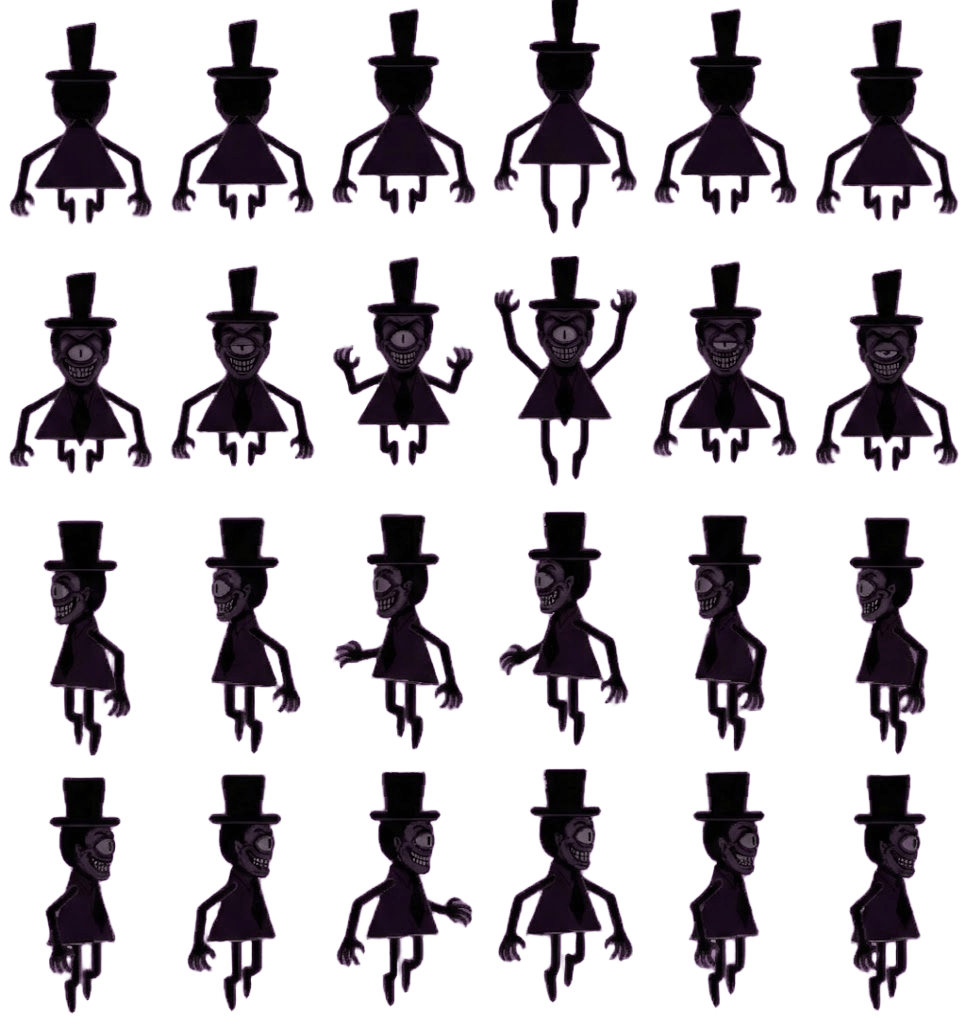
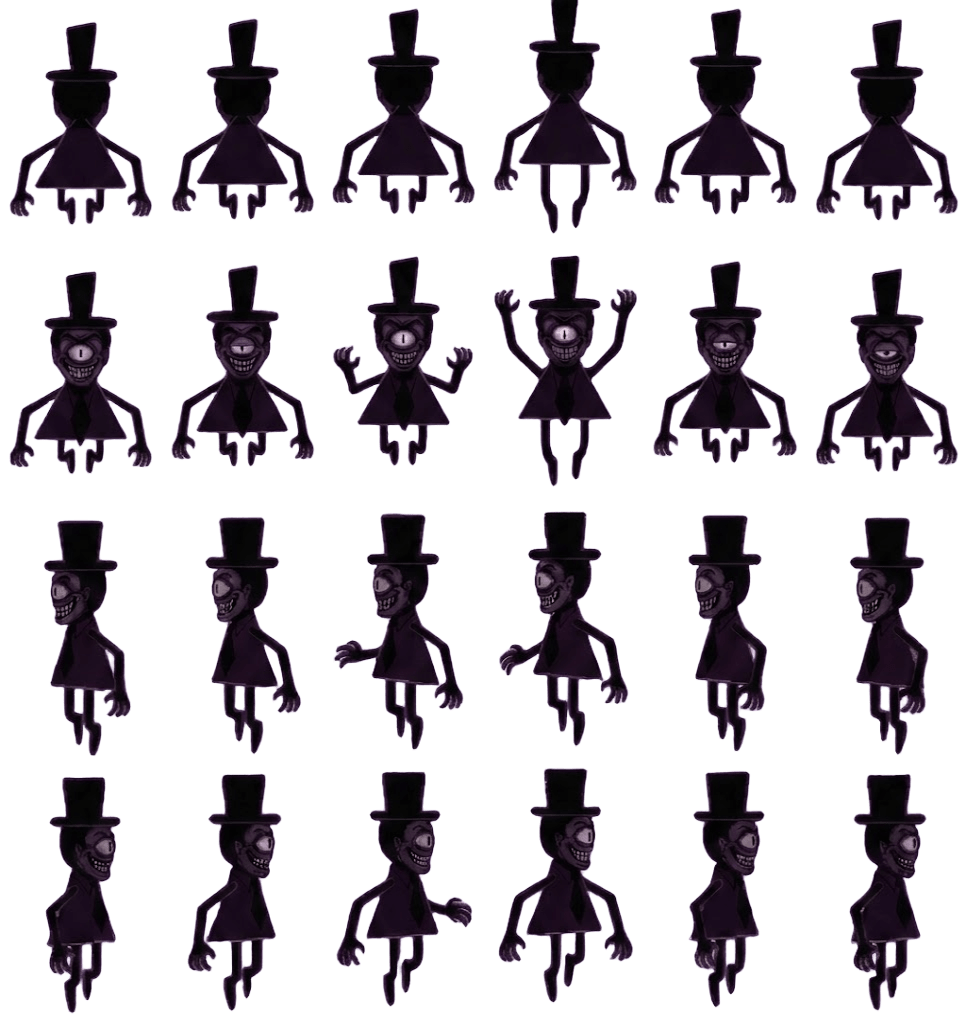
começando a adicionar o estranhesaulon com sprite do saulão modo estranho e efeitos visuais

diff --git a/jogo/sistema_personagens/inimigo.py b/jogo/sistema_personagens/inimigo.py
@@ -3,6 +3,9 @@ import os
 from sistema_personagens.personagens import Personagem
 from sistema_personagens.ia_saulao import SaulaoIA
 from sistema_personagens.estado_saulao import EstadoSaulao
+import math
+from sistema_ambientacao.fumaca_estranheza import FumacaEstranheza
+from sistema_ambientacao.particulas_estranheza import ParticulasEstranheza
 
 BASE_DIR = os.path.dirname(os.path.dirname(os.path.abspath(__file__)))
 
@@ -46,6 +49,9 @@ class Saulao(Personagem):
         caminho = os.path.join( BASE_DIR, "assets", "inimigos", "saulao", "spritesaulao.png")
         self.spritesheet = pygame.image.load(caminho).convert_alpha()
 
+        caminho_estranho = os.path.join(BASE_DIR, "assets", "estranhesaulon", "criaturas", "saulao_estranho", "saulao_estranho.png")
+        self.spritesheet_estranho = pygame.image.load(caminho_estranho).convert_alpha()
+
         caminho_ataque = os.path.join(BASE_DIR, "assets", "inimigos", "saulao", "saulao_atacando.png")
         self.spritesheet_ataque = pygame.image.load(caminho_ataque).convert_alpha()
 
@@ -71,6 +77,13 @@ class Saulao(Personagem):
         self.ia = SaulaoIA(self)
         self.estado = EstadoSaulao.PARADO
         self.dano_aplicado = False
+
+        self.estranhesaulon = False
+        self.tempo_flutuacao = 0.0
+        self.amplitude_flutuacao = 5
+        self.velocidade_flutuacao = 2.5
+        self.fumaca_estranheza = FumacaEstranheza()
+        self.particulas_estranheza = ParticulasEstranheza()
 
     def atualizar_ia(self, jogador, mapa):
         self.ia.atualizar(jogador, mapa)
@@ -139,7 +152,23 @@ class Saulao(Personagem):
             
         return False
 
+    def atualizar_flutuacao(self, dt):
+        if not self.estranhesaulon:
+            self.tempo_flutuacao = 0
+            return
+
+        self.tempo_flutuacao += dt
+        self.fumaca_estranheza.atualizar(dt)
+        self.particulas_estranheza.atualizar(dt)
+
+    def obter_offset_flutuacao(self):
+        return math.sin(self.tempo_flutuacao * self.velocidade_flutuacao) * self.amplitude_flutuacao
+
     def desenhar(self, tela):
+        if self.estranhesaulon:
+            self.desenhar_estranho(tela)
+            return
+
         glow_rect = self.glow.get_rect(center=(self.rect.centerx, self.rect.centery))
 
         tela.blit(self.glow, glow_rect, special_flags=pygame.BLEND_RGBA_ADD)
@@ -173,3 +202,27 @@ class Saulao(Personagem):
         self.desenhar_sombra(tela)
         # debug
         # pygame.draw.rect(tela, (255, 0, 0), self.rect, 2)
+
+    def desenhar_estranho(self, tela):
+        direcoes_estranhas = {
+            "cima": 0,
+            "baixo":1,
+            "esquerda":2,
+            "direita": 3
+        }
+        linha = direcoes_estranhas[self.direcao]
+
+        x_frame = self.frame_atual * self.frame_largura
+        y_frame = linha * self.frame_altura
+        frame = self.spritesheet_estranho.subsurface((x_frame, y_frame, self.frame_largura, self.frame_altura))
+
+        escala_estranha = 0.25
+        imagem = pygame.transform.scale(frame, (int(161 * escala_estranha), int(256 * escala_estranha)))
+
+        offset_y = self.obter_offset_flutuacao()
+
+        imagem_rect = imagem.get_rect(midbottom=(self.rect.centerx, self.rect.bottom + offset_y))
+        tela.blit(imagem, imagem_rect)
+
+        self.fumaca_estranheza.desenhar(tela, self.rect.centerx, self.rect.centery)
+        self.particulas_estranheza.desenhar(tela, self.rect.centerx, self.rect.centery)

diff --git a/jogo/game.py b/jogo/game.py
@@ -17,6 +17,7 @@ from sistema_menu.tela_vitoria import TelaVitoria
 from sistema_personagens.estado_benicio import EstadoBenicio
 from sistema_menu.tela_derrota import TelaDerrota
 from sistema_ambientacao.iluminacao import Iluminacao
+from sistema_ambientacao.fendas_estranheza import FendasEstranheza
 
 #tamanho da janela que o jogador vê (viewport), não é mais o tamanho do mapa
 LARGURA_VIEWPORT = 800
@@ -51,6 +52,8 @@ class Game:
         #mapa
         self.mapa = Map()
 
+        self.fendas_estranheza = FendasEstranheza(self.mapa.estranheza)
+
         #sistemas do mapa
         self.mesa_mistura = MesaMistura(464, 800)
         self.porta = Porta(446, 870)
@@ -65,6 +68,7 @@ class Game:
         x,y = self.mapa.encontrar_posicao_livre(16, 18)
         self.player = Benício(x,y, 1.3)
         self.saulao = Saulao(200, 200, velocidade=1.0)
+        self.saulao.estranhesaulon = True
 
         #telas de resultado
         #cena de vitoria
@@ -107,6 +111,9 @@ class Game:
         self.DEBUG = False
         self.estado = Estado.JOGANDO
         self.tempo_restante = 7 * 60
+
+
+        
 
     def tratar_eventos(self):
         for evento in pygame.event.get():
@@ -172,6 +179,8 @@ class Game:
 
         self.tempo_restante -= dt
 
+        self.fendas_estranheza.atualizar(dt)
+
         if self.tempo_restante <= 0:
             self.tempo_restante = 0
             self.iniciar_derrota()
@@ -193,6 +202,7 @@ class Game:
 
         self.saulao.atualizar_ia(self.player, self.mapa)
         self.saulao.atualizar_animacao(self.player)
+        self.saulao.atualizar_flutuacao(dt)
 
     def desenhar(self):
         #mundo
@@ -204,6 +214,8 @@ class Game:
 
         self.mesa_mistura.desenhar(self.mundo)
         self.porta.desenhar(self.mundo)
+
+        self.fendas_estranheza.desenhar(self.mundo)
 
         personagens = [self.player, self.saulao]
         personagens.sort(key=lambda personagem: personagem.rect.bottom)

diff --git a/jogo/sistema_ambientacao/fumaca_estranheza.py b/jogo/sistema_ambientacao/fumaca_estranheza.py
@@ -1,0 +1,45 @@
+import pygame
+import random
+import math
+
+class FumacaEstranheza:
+    def __init__(self, quantidade=12):
+        self.quantidade = quantidade
+        self.particulas = []
+
+    def criar_particula(self):
+        angulo = random.uniform(0, math.pi * 2)
+        distancia = random.uniform(2, 8)
+        self.particulas.append({
+            "x": math.cos(angulo) * distancia,
+            "y": random.uniform(5, 12),
+            "velocidade_x": random.uniform(-4, 4),
+            "velocidade_y": random.uniform(-12, -5),
+            "tamanho": random.uniform(3, 7),
+            "vida": random.uniform(0.8, 1.5),
+            "vida_maxima": 0
+        })
+        self.particulas[-1]["vida_maxima"] = self.particulas[-1]["vida"]
+
+    def atualizar(self, dt):
+        while len(self.particulas) < self.quantidade:
+            self.criar_particula()
+
+        for particula in self.particulas:
+            particula["x"] += particula["velocidade_x"] * dt
+            particula["y"] += particula["velocidade_y"] * dt
+            particula["velocidade_x"] += random.uniform(-2, 2) * dt
+            particula["tamanho"] += 2 * dt
+            particula["vida"] -= dt
+
+        self.particulas = [p for p in self.particulas if p["vida"] > 0]
+
+    def desenhar(self, tela, x, y):
+        for particula in self.particulas:
+            proporcao = particula["vida"] / particula["vida_maxima"]
+            alpha = int(90 * proporcao)
+            tamanho = int(particula["tamanho"])
+            superficie = pygame.Surface((tamanho * 2, tamanho * 2), pygame.SRCALPHA)
+            pygame.draw.circle(superficie, (110, 35, 160, alpha), (tamanho, tamanho), tamanho)
+
+            tela.blit(superficie, (x + particula["x"] - tamanho, y + particula["y"] - tamanho))

diff --git a/jogo/sistema_ambientacao/particulas_estranheza.py b/jogo/sistema_ambientacao/particulas_estranheza.py
@@ -1,0 +1,44 @@
+import pygame
+import os
+import random
+
+BASE_DIR = os.path.dirname(os.path.dirname(os.path.abspath(__file__)))
+
+class ParticulasEstranheza:
+    def __init__(self, quantidade=8):
+        caminho = os.path.join(BASE_DIR, "assets", "estranhesaulon", "efeitos", "particula_estranheza.png")
+        self.imagem = pygame.image.load(caminho).convert_alpha()
+        self.quantidade = quantidade
+        self.particulas = []
+
+    def criar_particula(self):
+        self.particulas.append({
+            "x": random.uniform(-8, 8),
+            "y": random.uniform(0, 8),
+            "velocidade_x": random.uniform(-8, 8),
+            "velocidade_y": random.uniform(-22, -10),
+            "vida": random.uniform(0.7, 1.3),
+            "vida_maxima": 0,
+            "escala": random.uniform(0.10, 0.18)
+        })
+        self.particulas[-1]["vida_maxima"] = self.particulas[-1]["vida"]
+
+    def atualizar(self, dt):
+        while len(self.particulas) < self.quantidade:
+            self.criar_particula()
+
+        for particula in self.particulas:
+            particula["x"] += particula["velocidade_x"] * dt
+            particula["y"] += particula["velocidade_y"] * dt
+            particula["velocidade_x"] += random.uniform(-5, 5) * dt
+            particula["vida"] -= dt
+
+        self.particulas = [p for p in self.particulas if p["vida"] > 0]
+
+    def desenhar(self, tela, x, y):
+        for particula in self.particulas:
+            proporcao = particula["vida"] / particula["vida_maxima"]
+            imagem = pygame.transform.scale_by(self.imagem, particula["escala"])
+            imagem.set_alpha(int(255 * proporcao))
+            rect = imagem.get_rect(center=(x + particula["x"], y + particula["y"]))
+            tela.blit(imagem, rect)

diff --git a/jogo/sistema_ambientacao/fendas_estranheza.py b/jogo/sistema_ambientacao/fendas_estranheza.py
@@ -1,0 +1,19 @@
+import pygame
+import os
+
+BASE_DIR = os.path.dirname(os.path.dirname(os.path.abspath(__file__)))
+
+class FendasEstranheza:
+    def __init__(self, posicoes):
+        caminho = os.path.join(BASE_DIR, "assets", "estranhesaulon", "efeitos", "fenda.png")
+        self.imagem = pygame.image.load(caminho).convert_alpha()
+        self.imagem = pygame.transform.scale_by(self.imagem, 0.10)
+        self.posicoes = posicoes
+
+    def atualizar(self, dt):
+        pass
+
+    def desenhar(self, tela):
+        for x, y in self.posicoes:
+            rect = self.imagem.get_rect(center=(x, y))
+            tela.blit(self.imagem, rect)

diff --git a/jogo/map.py b/jogo/map.py
@@ -16,6 +16,12 @@ class Map:
         for obj in camada_itens:
             self.itens.append((obj.name, obj.x, obj.y))
 
+        self.estranheza = []
+        camada_estranheza = self.tmx.get_layer_by_name("estranheza")
+        for obj in camada_estranheza:
+            self.estranheza.append((obj.x, obj.y))
+
+
         #tamanho do mundo agora vem direto do próprio mapa (tiles x tamanho do tile)
         self.largura = self.tmx.width * self.tmx.tilewidth
         self.altura = self.tmx.height * self.tmx.tileheight
